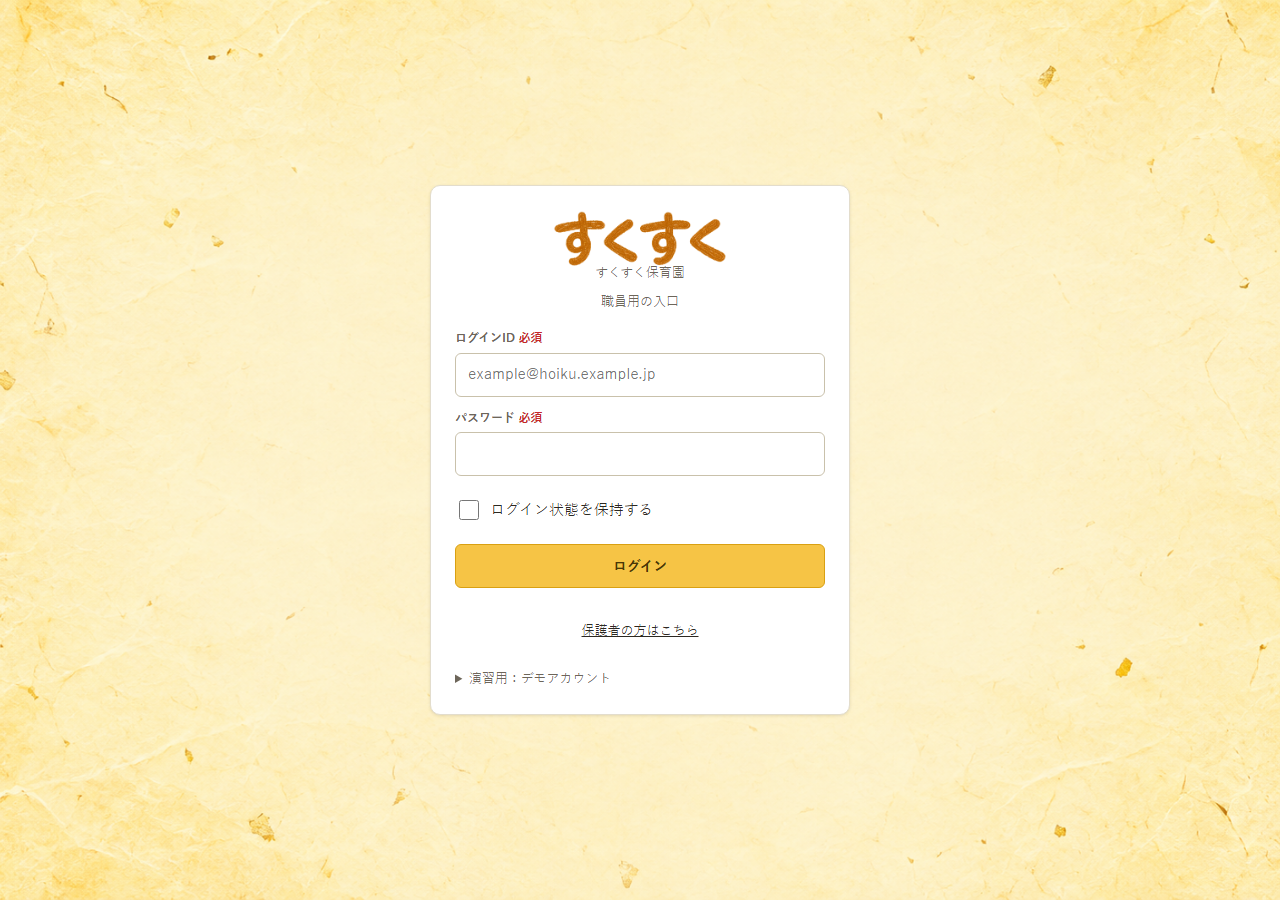
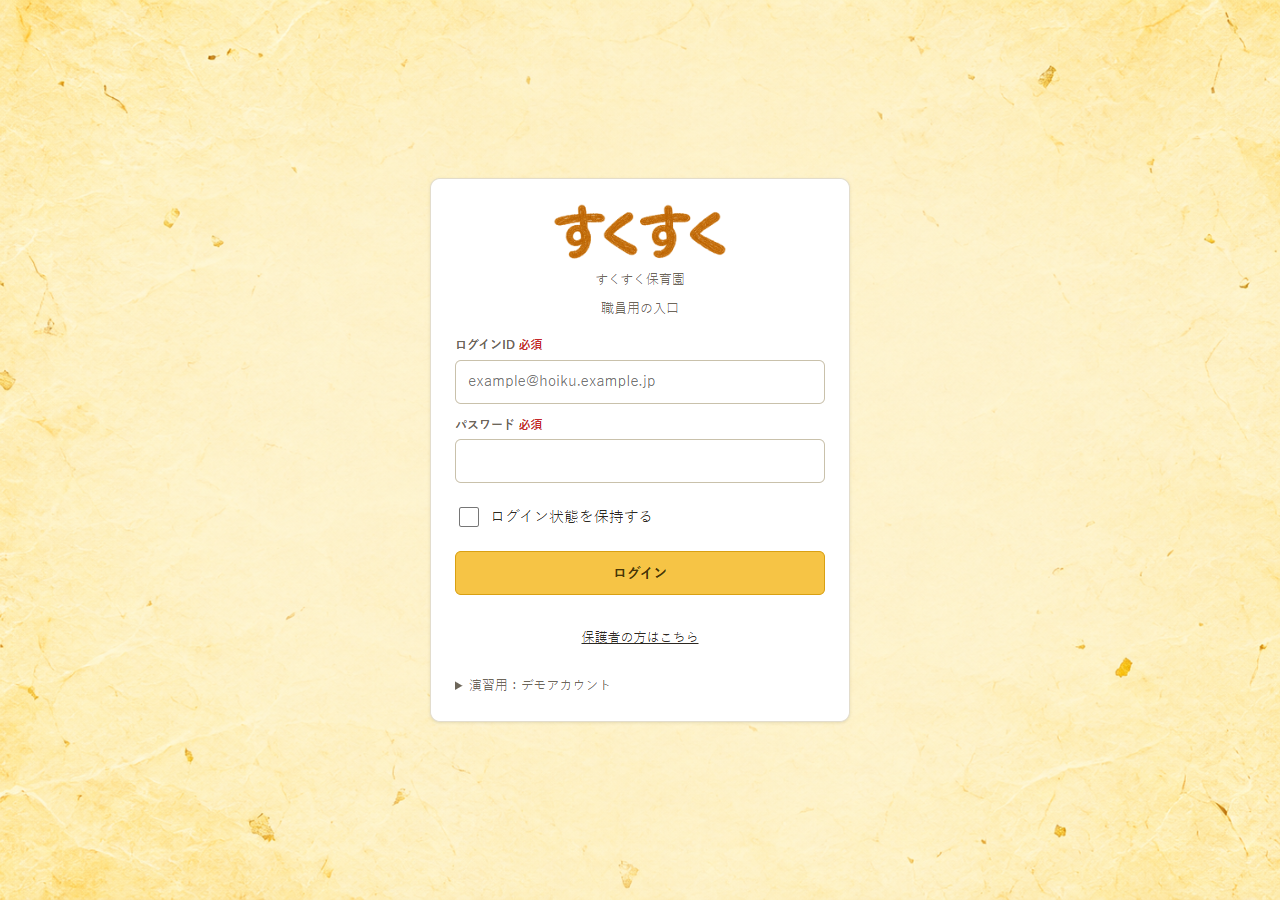
園名との間隔を直したログイン画面例に更新

diff --git a/図/ログイン見出し案.md b/図/ログイン見出し案.md
@@ -16,4 +16,4 @@
 
 黄色い和紙背景と白いログインフォームに対して、茶橙色のクレヨン文字を置く。文字の太さと輪郭に小さな揺れを残し、濃い縁取りや影は付けない。見出しは画像として表示するが、代替テキスト `すくすく` を設定している。
 
-素材は透明背景の PNG。実画面での幅は 230px で、画像の透明な余白も含む。職員用の PC 幅と保護者用のスマートフォン幅で、文字と入力欄の重なりがないことを確認した。
+素材は透明背景の PNG。実画面での幅は 230px で、画像の透明な余白も含む。「すくすく」と「すくすく保育園」の間隔が詰まって見えたため、画像下の負の余白を外した（`bae0ec2`）。上の実画面例は修正後の表示。職員用の PC 幅と保護者用のスマートフォン幅で、見出し・園名・入力欄が重ならないことを確認した。
